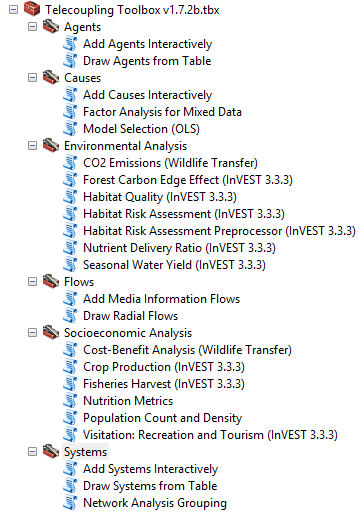
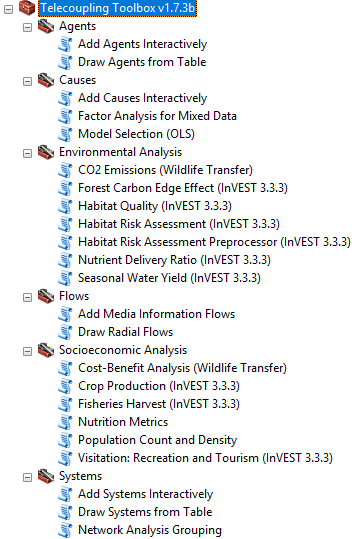
upgrade tbx & docs to v1.7.3b

Changed region(s): [[0.0, 0.0, 1.0, 0.9981]]

diff --git a/releases-arcgis-toolbox.html b/releases-arcgis-toolbox.html
@@ -45,6 +45,8 @@ subtitle: Major and Minor Releases
             <h2>Minor Releases</h2>
             <p>
                 <ul>
+                    <li>Version 1.7.3 (<em>beta</em>)</li>
+                    <p>This release adds network analysis metrics (within an output .csv file) to the <em>Network Analysis Grouping</em> tool.</p>
                     <li>Version 1.7.2 (<em>beta</em>)</li>
                     <p>This release removed the dependence on mosaic data sets from the <em>Nutrition Metrics</em> tool. This tool now relies on rasters grouped in a common folder rather than construction of a mosaic data set.</p>
                     <li>Version 1.7.1 (<em>beta</em>)</li>
